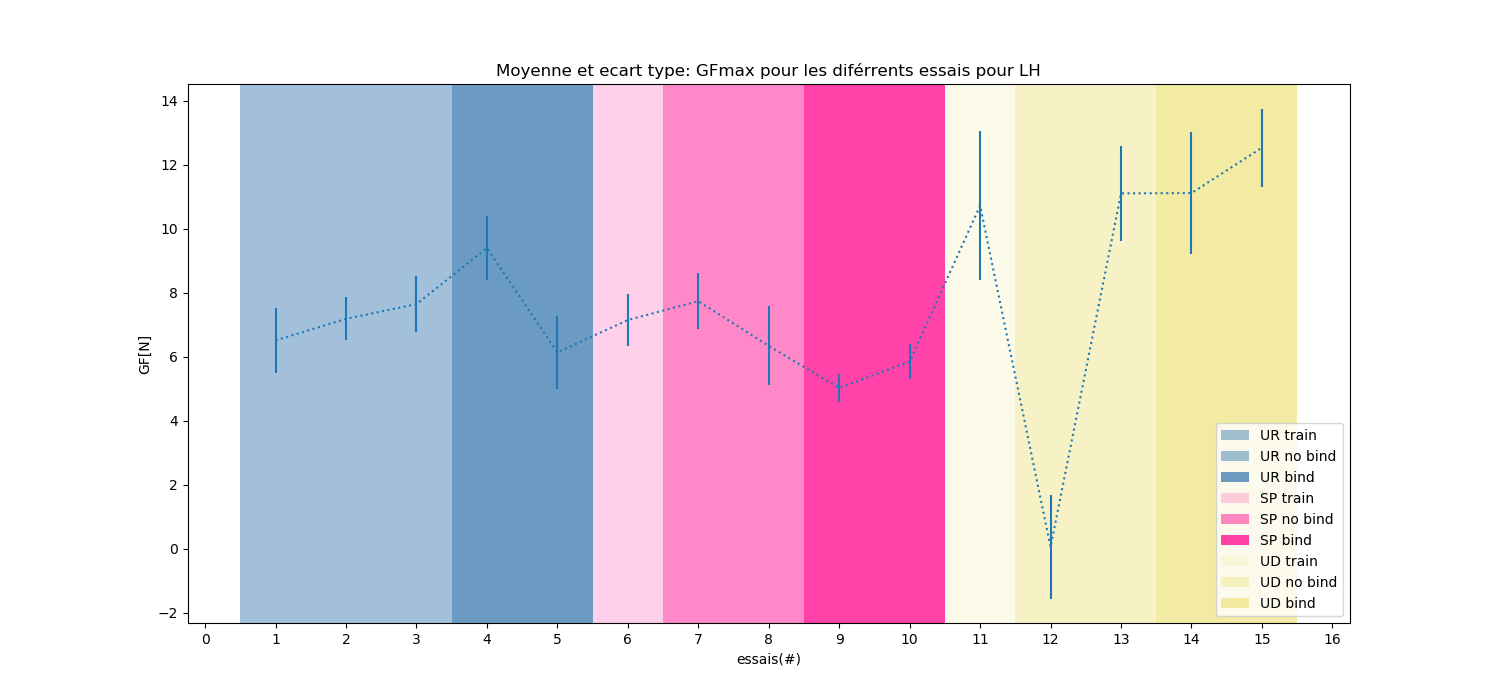
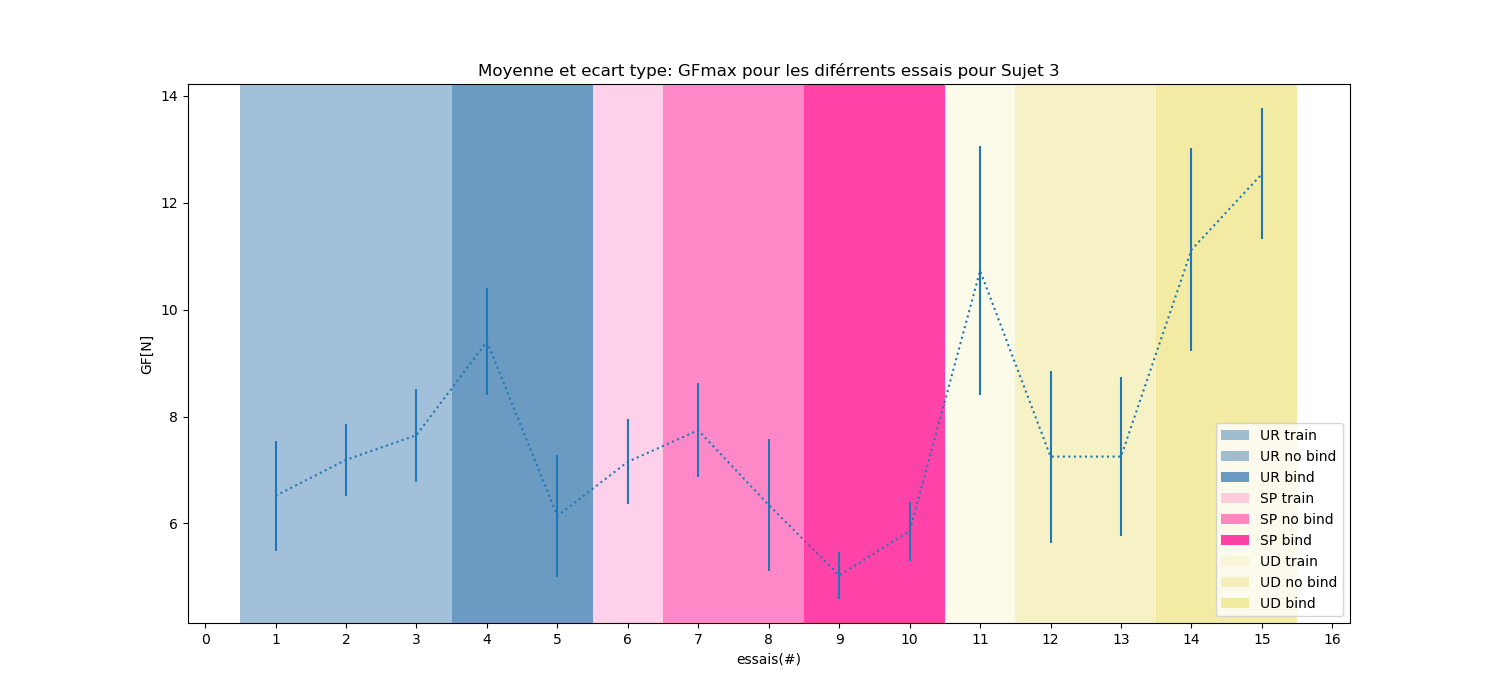
update code

diff --git a/codepython/GF/allsubjects.py b/codepython/GF/allsubjects.py
@@ -1,0 +1,138 @@
+from os import path
+
+import matplotlib.pyplot as plt
+import numpy as np
+from scipy import signal
+
+import coda_tools as coda
+import processing_tools as tool
+import glm_data_processing as glm
+
+ntrials = [1, 2, 3, 4, 5]  # /!\ changer noms de fichiers
+positions = ['UR', 'SP', 'UD']
+names = ['GD', 'PDs', 'LH', 'MH']
+colors = ['plum', 'aquamarine', 'aquamarine', 'royalblue', 'royalblue']
+sujet = {
+    "GD": "Sujet 1",
+    "LH": "Sujet 3",
+    "PDs": "Sujet 2",
+    "MH": "Sujet 4"
+}
+positionsdico = {
+    "SP": "Supine",
+    "UD": "UpsideDown",
+    "UR": "UpRight"
+}
+
+sujetcolor={
+    "PDs":"deeppink",
+    "MH": "black",
+    "GD":"green",
+    "LH":"blueviolet"
+}
+sujetmarker={
+    "GD":"d",
+    "MH":"o",
+    "LH":"s",
+    "PDs":"*"
+}
+
+fig, (ax1, ax2, ax3) = plt.subplots(nrows=3, ncols=1, figsize=(7, 10))
+tup = (ax1, ax2, ax3)
+for p, ax in zip(positions, tup):
+    for name in names:
+        box = []
+        box1 = []
+        index = []
+        for n in ntrials:
+            glm_path = "../../data/%s_%s_00%d.glm" % (name, p, n)
+            if not path.exists(glm_path):
+                continue
+
+            glm_df = glm.import_data(glm_path)
+            baseline = range(0, 400)
+            # Normal Force exerted by the thumb
+            NF_thumb = glm_df.loc[:, 'Fygl'] - np.nanmean(glm_df.loc[baseline, 'Fygl'])
+            # Vertical Tangential Force exerted by the thumb
+            TFx_thumb = glm_df.loc[:, 'Fxgl'] - np.nanmean(glm_df.loc[baseline, 'Fxgl'])
+            # Horizontal Tangential Force exerted by the thumb
+            TFz_thumb = glm_df.loc[:, 'Fzgl'] - np.nanmean(glm_df.loc[baseline, 'Fzgl'])
+
+            # Normal Force exerted by the index
+            NF_index = -(glm_df.loc[:, 'Fygr'] - np.nanmean(glm_df.loc[baseline, 'Fygr']))
+            # Vertical Tangential Force exerted by the index
+            TFx_index = glm_df.loc[:, 'Fxgr'] - np.nanmean(glm_df.loc[baseline, 'Fxgr'])
+            # Horizontal Tangential Force exerted by the index
+            TFz_index = glm_df.loc[:, 'Fzgr'] - np.nanmean(glm_df.loc[baseline, 'Fzgr'])
+
+            # %% Get acceleration, LF and GF
+            time = glm_df.loc[:, 'time'].to_numpy()
+            accX = glm_df.loc[:, 'LowAcc_X'].to_numpy() * (-9.81)
+            accX = accX - np.nanmean(accX[baseline])
+            GF = glm_df.loc[:, 'GF'].to_numpy()
+            GF = GF - np.nanmean(GF[baseline])
+            LFv = TFx_thumb + TFx_index
+            LFh = TFz_thumb + TFz_index
+            LF = np.hypot(LFv, LFh)
+
+            # %%Filter data
+            freqAcq = 800  # Frequence d'acquisition des donnees
+            freqFiltAcc = 20  # Frequence de coupure de l'acceleration
+            freqFiltForces = 20  # Frequence de coupure des forces
+
+            accX = glm.filter_signal(accX, fs=freqAcq, fc=freqFiltAcc)
+            GF = glm.filter_signal(GF, fs=freqAcq, fc=freqFiltForces)
+            LF = glm.filter_signal(LF, fs=freqAcq, fc=freqFiltForces)
+            LFv = glm.filter_signal(LFv, fs=freqAcq, fc=freqFiltForces)
+            LFh = glm.filter_signal(LFh, fs=freqAcq, fc=freqFiltForces)
+            file_path = "../../data/Groupe_1_codas/%s_%s_coda000%d.txt" % (name, p, n)
+            if not path.exists(file_path):
+                continue
+            else:
+                coda_df = coda.import_data(file_path)
+                time1 = coda_df.time.to_numpy()
+                markers_id = [6, 5, 8, 7]
+
+                pos = coda.manipulandum_center(coda_df, markers_id)
+                pos = pos / 1000
+                vel = tool.derive(pos, 200, axis=1)
+
+                pk = signal.find_peaks(vel[0], prominence=1, width=(100, 1000))
+                ipk = pk[0]  # index
+                cycle_starts = ipk[:-1]
+                cycle_ends = ipk[1:] - 1
+
+                GFmax = []
+                for i in range(len(cycle_starts)):
+                    id = np.where((time > time1[cycle_starts[i]]) & (time < time1[cycle_ends[i]]))
+                    GFmax.append(np.nanmax(GF[id]))
+                index.append(n)
+                if name == "LH" and (n == 2 or n == 3) and p == "UD":
+                    GFmax += (np.nanmean(box) - np.nanmean(GFmax))
+                box.append(np.nanmean(GFmax))
+                box1.append(np.nanstd(GFmax))
+        if ax==ax3:
+            ax.errorbar(index, box, yerr=box1, linestyle='dotted',color=sujetcolor[name],marker=sujetmarker[name],label=sujet[name])
+        else:
+            ax.errorbar(index, box, yerr=box1, linestyle='dotted',color=sujetcolor[name],marker=sujetmarker[name])
+    if ax3==ax:
+        ax.axvspan(0.5, 1.50, facecolor='steelblue', alpha=0.2)
+        ax.axvspan(1.5, 3.50, facecolor='steelblue', alpha=0.5)
+        ax.axvspan(3.5, 5.50, facecolor='steelblue', alpha=0.8)
+    else:
+        ax.axvspan(0.5, 1.50, facecolor='steelblue', alpha=0.2, label='train')
+        ax.axvspan(1.5, 3.50, facecolor='steelblue', alpha=0.5, label='no bind')
+        ax.axvspan(3.5, 5.50, facecolor='steelblue', alpha=0.8, label='bind')
+    #ax.set_ylim(0.20, 0.55)
+    ax.set_xlim(0.9,5.1)
+    ax.set_xticks([1,2,3,4,5])
+    ax.set_title("%s" % positionsdico[p])
+    ax.set_ylabel("GF[N]")
+    if p == 'UR':
+        ax.legend(loc="lower left")
+    if p == 'UD':
+        ax.legend(loc="lower left")
+        ax.set_xlabel('blocs(#)')
+fig.suptitle("GF moyenne")
+plt.savefig("errorbar_GF.png")
+

diff --git a/codepython/Angle/allsubjects.py b/codepython/Angle/allsubjects.py
@@ -1,0 +1,92 @@
+from os import path
+
+import matplotlib.pyplot as plt
+import numpy as np
+from scipy import signal
+
+import coda_tools as coda
+import processing_tools as tool
+
+ntrials = [1, 2, 3, 4, 5]  # /!\ changer noms de fichiers
+positions = ['UR', 'SP', 'UD']
+names = ['GD', 'PDs', 'LH', 'MH']
+colors = ['plum', 'aquamarine', 'aquamarine', 'royalblue', 'royalblue']
+sujet = {
+    "GD": "Sujet 1",
+    "LH": "Sujet 3",
+    "PDs": "Sujet 2",
+    "MH": "Sujet 4"
+}
+positionsdico = {
+    "SP": "Supine",
+    "UD": "UpsideDown",
+    "UR": "UpRight"
+}
+
+sujetcolor = {
+    "PDs": "deeppink",
+    "MH": "black",
+    "GD": "green",
+    "LH": "blueviolet"
+}
+sujetmarker = {
+    "GD": "d",
+    "MH": "o",
+    "LH": "s",
+    "PDs": "*"
+}
+
+fig, (ax1, ax2, ax3) = plt.subplots(nrows=3, ncols=1, figsize=(7, 10))
+tup = (ax1, ax2, ax3)
+for p, ax in zip(positions, tup):
+    for name in names:
+        box = []
+        box1 = []
+        index = []
+        for n in ntrials:
+            file_path = "../../data/Groupe_1_codas/%s_%s_coda000%d.txt" % (name, p, n)
+            if not path.exists(file_path):
+                continue
+            else:
+                coda_df = coda.import_data(file_path)
+                time1 = coda_df.time.to_numpy()
+                markers_id = [6, 5, 8, 7]
+
+                pos = coda.manipulandum_center(coda_df, markers_id)
+                pos = pos / 1000
+                vel = tool.derive(pos, 200, axis=1)
+
+                pk = signal.find_peaks(vel[0], prominence=1, width=(100, 1000))
+                ipk = pk[0]  # index
+                cycle_starts = ipk[:-1]
+                cycle_ends = ipk[1:] - 1
+
+                angle = []
+                for k in range(len(cycle_starts)):
+                    ecartx = (abs(np.nanmax(pos[0][cycle_starts[k]:cycle_ends[k]]) - np.nanmin(
+                        pos[0][cycle_starts[k]:cycle_ends[k]])))
+                    ecarty = (abs(np.nanmax(pos[1][cycle_starts[k]:cycle_ends[k]]) - np.nanmin(
+                        pos[1][cycle_starts[k]:cycle_ends[k]])))
+                    angle.append(90 - np.degrees(np.arctan(ecarty / ecartx)))
+
+                box.append(np.nanmean(angle))
+                box1.append(np.nanstd(angle))
+                index.append(n)
+
+        ax.errorbar(index, box, yerr=box1, linestyle='dotted', color=sujetcolor[name], marker=sujetmarker[name],
+                    label=sujet[name])
+
+    ax.axvspan(0.5, 1.50, facecolor='steelblue', alpha=0.2, label='train')
+    ax.axvspan(1.5, 3.50, facecolor='steelblue', alpha=0.5, label='no bind')
+    ax.axvspan(3.5, 5.50, facecolor='steelblue', alpha=0.8, label='bind')
+    ax.set_ylim(90, 65)
+    ax.set_xlim(0.9, 5.1)
+    ax.set_xticks([1, 2, 3, 4, 5])
+    ax.set_title("%s" % positionsdico[p])
+    ax.set_ylabel("Amplitude mvt [m]")
+    if p == 'UR':
+        ax.legend(loc="upper left")
+    if p == 'UD':
+        ax.set_xlabel('blocs(#)')
+fig.suptitle("Variation de l'angle dans le plan frontral pour tous les sujets")
+plt.savefig("errorbar_angle_all.png")

diff --git a/codepython/Angle/evolution_angle.py b/codepython/Angle/evolution_angle.py
@@ -1,26 +1,22 @@
-import numpy as np
-import matplotlib.pyplot as plt
-import math
-
-from scipy import signal
-
-import glm_data_processing as glm
-import get_mu_points as gmp
-import get_mu_fit as gmf
 from os import path
+
+import matplotlib.pyplot as plt
+import numpy as np
+from scipy import signal
 
 import coda_tools as coda
 import processing_tools as tool
+
 sujet = {
-  "GD": "Sujet 1",
-  "LH": "Sujet 3",
-  "PDs": "Sujet 2",
+    "GD": "Sujet 1",
+    "LH": "Sujet 3",
+    "PDs": "Sujet 2",
     "MH": "Sujet 4"
 }
-positionsdico={
+positionsdico = {
     "SP": "Supine",
-    "UD":"UpsidDowm",
-    "UR":"UpRight"
+    "UD": "UpsidDowm",
+    "UR": "UpRight"
 }
 ntrials = [1, 2, 3, 4, 5]  # /!\ changer noms de fichiers
 positions = ['UR', 'SP', 'UD']
@@ -50,23 +46,25 @@ for name in names:
                 cycle_starts = ipk[:-1]
                 cycle_ends = ipk[1:] - 1
 
-                angle=[]
+                angle = []
                 for k in range(len(cycle_starts)):
-                    ecartx=(abs(np.nanmax(pos[0][cycle_starts[k]:cycle_ends[k]]) - np.nanmin(
+                    ecartx = (abs(np.nanmax(pos[0][cycle_starts[k]:cycle_ends[k]]) - np.nanmin(
                         pos[0][cycle_starts[k]:cycle_ends[k]])))
-                    ecarty=(abs(np.nanmax(pos[1][cycle_starts[k]:cycle_ends[k]]) - np.nanmin(
+                    ecarty = (abs(np.nanmax(pos[1][cycle_starts[k]:cycle_ends[k]]) - np.nanmin(
                         pos[1][cycle_starts[k]:cycle_ends[k]])))
-                    angle.append(90-np.degrees(np.arctan(ecarty/ecartx)))
+                    angle.append(90 - np.degrees(np.arctan(ecarty / ecartx)))
 
                 box.append(angle)
-        boxplot=ax.boxplot(box, notch=False,vert=True,medianprops={'color':'purple'}, patch_artist=True, showfliers=False)
+        boxplot = ax.boxplot(box, notch=False, vert=True, medianprops={'color': 'purple'}, patch_artist=True,
+                             showfliers=False)
         for patch, color in zip(boxplot['boxes'], colors):
             patch.set_facecolor(color)
-        ax.legend([boxplot["boxes"][0],boxplot["boxes"][1],boxplot["boxes"][3]], ['train', 'no blind','blind'], loc='upper right')
-        ax.set_title("%s"%positionsdico[p])
+        ax.legend([boxplot["boxes"][0], boxplot["boxes"][1], boxplot["boxes"][3]], ['train', 'no blind', 'blind'],
+                  loc='upper right')
+        ax.set_title("%s" % positionsdico[p])
         ax.set_ylabel('angle[degrees]')
-        ax.set_ylim(70,90)
-        if p=='UD':
+        ax.set_ylim(70, 90)
+        if p == 'UD':
             ax.set_xlabel('essais')
     fig.suptitle("evolution angle %s" % sujet[name])
     plt.savefig("box_angle_for_%s.png" % name)

diff --git a/codepython/GF/GFbox.py b/codepython/GF/GFbox.py
@@ -1,15 +1,11 @@
-import numpy as np
-import matplotlib.pyplot as plt
-import math
-
-from scipy import signal
-
-import glm_data_processing as glm
-import get_mu_points as gmp
-import get_mu_fit as gmf
 from os import path
 
+import matplotlib.pyplot as plt
+import numpy as np
+from scipy import signal
+
 import coda_tools as coda
+import glm_data_processing as glm
 import processing_tools as tool
 
 ntrials = 5  # /!\ changer noms de fichiers
@@ -18,12 +14,12 @@ names = ['PDS', 'GD', 'MH', 'LH']
 sujet = {
   "GD": "Sujet 1",
   "LH": "Sujet 3",
-  "PDs": "Sujet 2",
+  "PDS": "Sujet 2",
     "MH": "Sujet 4"
 }
 positionsdico={
     "SP": "Supine",
-    "UD":"UpsideDowm",
+    "UD":"UpsideDown",
     "UR":"UpRight"
 }
 
@@ -106,7 +102,7 @@ for name in names:
                 GFmax.append(np.nanmax(GF[id]))
             index.append(n + a * 5)
             if name == "LH" and (n == 2 or n == 3) and p=="UD":
-                GFmax += GFmean[0]
+                GFmax += (np.nanmean(GFmean)-np.nanmean(GFmax))
             GFmean.append(np.mean(GFmax))
             GFstd.append(np.std(GFmax))
 
